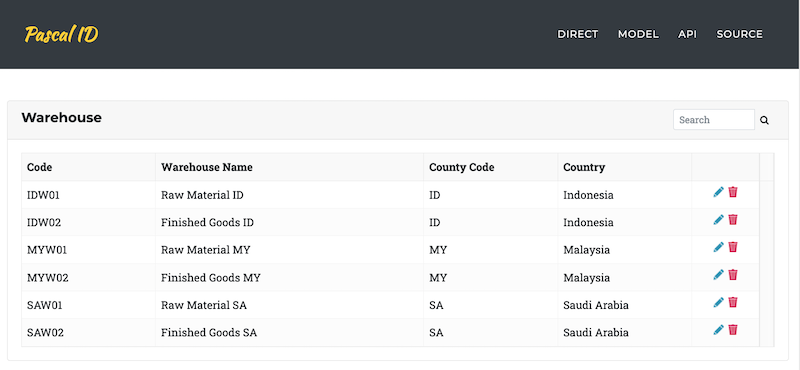
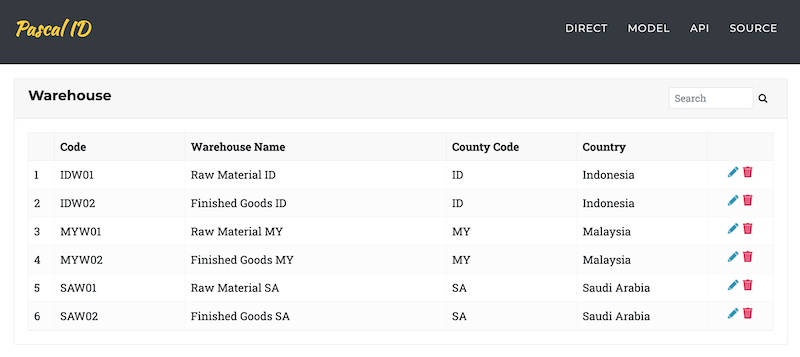
change sample images

diff --git a/public_html/modules/apiclient/main.html b/public_html/modules/apiclient/main.html
@@ -7,7 +7,7 @@
 
 
 <section id="direct">
-  <div class="container-fluid">
+  <div class="container container-fluid">
   	<div class="row">
 
       <!-- list -->
